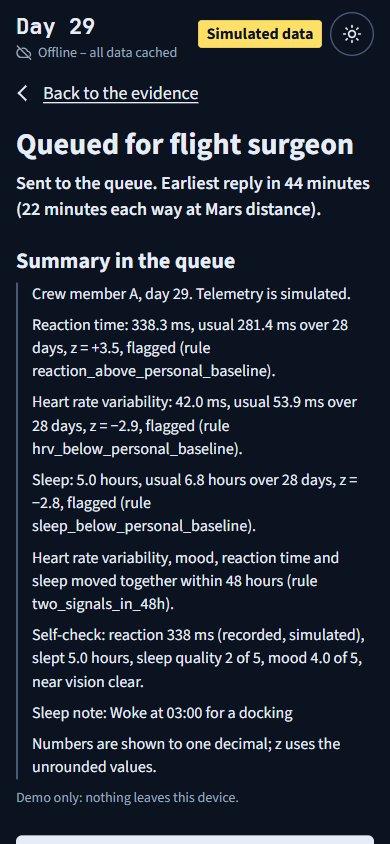
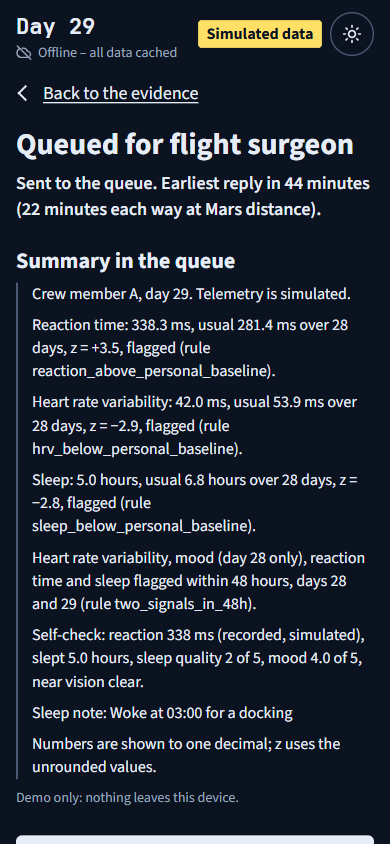
48-hour row names its signals and days (flagged, with a one-day note); README not-covered line for blood pressure and blood sugar

Changed region(s): [[0.0615, 0.6469, 0.9231, 0.7393]]

diff --git a/app.js b/app.js
@@ -50,6 +50,17 @@ const signed = (z) => `${z < 0 ? "−" : "+"}${Math.abs(z).toFixed(1)}`;
 const listWords = (xs) => (xs.length < 2 ? xs.join("") : `${xs.slice(0, -1).join(", ")} and ${xs.at(-1)}`);
 const title = (r) => (r.signal ? SIGNALS[r.signal].name : "Several readings together");
 const names = (r) => listWords(r.signals.map((s, i) => (i ? SIGNALS[s].name.toLowerCase() : SIGNALS[s].name)));
+// The 48-hour rule's two days (rules.js ruleMultiSignal: the latest day and the day before).
+const pairDays = () => [state.day - 1, state.day];
+// Its signals, each marked "(day N only)" when it was confirmed on just one of the two days.
+function pairNames(r, capital) {
+  const confirmedOn = (s, d) => (state.flags[d] || []).some((f) => f.signal === s && f.status === "confirmed");
+  return listWords(r.signals.map((s, i) => {
+    const name = i || !capital ? SIGNALS[s].name.toLowerCase() : SIGNALS[s].name;
+    const on = pairDays().filter((d) => confirmedOn(s, d));
+    return on.length === 1 ? `${name} (day ${on[0]} only)` : name;
+  }));
+}
 const flagsFor = (day) =>
   [...(state.flags[day] || [])].sort((a, b) => !a.signal - !b.signal || Math.abs(b.z) - Math.abs(a.z));
 const windowDays = (r) => { const h = state.rows.slice(0, -1).slice(-r.window_days); return [h[0].day, h.at(-1).day]; };
@@ -67,7 +78,7 @@ function daysRunning(r) {
 }
 
 function plainStatus(r) {
-  if (!r.signal) return `${COUNT[r.signals.length] || r.signals.length} readings moved together within 48 hours.`;
+  if (!r.signal) return `Flagged on days ${pairDays().join(" and ")}: ${pairNames(r)}.`;
   const where = Math.abs(r.z) >= WELL_OUTSIDE_Z ? "Well outside your usual range" : "Outside your usual range";
   const n = daysRunning(r);
   if (n > 1) return `${where}, ${ORDINAL[n] ? `${ORDINAL[n]} day` : `${n} days`} running.`;
@@ -75,7 +86,8 @@ function plainStatus(r) {
 }
 
 function plainWords(r) {
-  if (!r.signal) return `${r.signals.length} readings moved outside your usual range within 48 hours: ${names(r)}. This rule fires when two or more do.`;
+  if (!r.signal) return `${COUNT[r.signals.length] || r.signals.length} readings were flagged within 48 hours (days ${pairDays().join(" and ")}): ${pairNames(r)}. ` +
+    "This rule fires when two or more different readings are flagged in that window.";
   const s = SIGNALS[r.signal], diff = r.current - r.baseline_mean, [a, b] = windowDays(r);
   const pct = Math.round((Math.abs(diff) / r.baseline_mean) * 100);
   return `${s.phrase} was ${fmt(r.signal, r.current)}. Over days ${a} to ${b} it averaged ${fmt(r.signal, r.baseline_mean)}, ` +
@@ -594,7 +606,7 @@ function renderEvidence(r) {
     : [
       ["Window", `48 hours, days ${state.day - 1} and ${state.day}`],
       ["Readings", names(r)],
-      ["Flags when", "2 or more readings are outside your usual range"],
+      ["Flags when", "2 or more different readings are flagged in the window"],
       ["Status", plainStatus(r)],
     ];
   $("ev-numbers").classList.toggle("nums", !!r.signal); // today, usual and spread in the number font
@@ -682,7 +694,7 @@ $("queue-btn").addEventListener("click", () => {
   for (const r of flagsFor(state.day)) {
     lines.push(r.signal
       ? `${title(r)}: ${fmtZ(r, r.current)}, usual ${fmtZ(r, r.baseline_mean)} over ${r.window_days} days, z = ${signed(r.z)}, ${r.status === "confirmed" ? "flagged" : "watching"} (rule ${r.rule}).`
-      : `${names(r)} moved together within 48 hours (rule ${r.rule}).`);
+      : `${pairNames(r, true)} flagged within 48 hours, days ${pairDays().join(" and ")} (rule ${r.rule}).`);
   }
   if (row.self_check) {
     lines.push(`Self-check: reaction ${fmt("reaction_ms", row.reaction_ms)} ${row.reaction_recorded ? "(recorded, simulated)" : "median of five"}, slept ${fmt("sleep_hours", row.sleep_hours)}, ` +

diff --git a/index.html b/index.html
@@ -495,6 +495,6 @@ fieldset { border: 0; padding: 0; margin: 28px 0 0; min-width: 0; }
 <script src="spe.js?v=cdf73caa73"></script>
 <script src="reaction.js?v=0c373ca889"></script>
 <script src="store.js?v=986788a7d2"></script>
-<script src="app.js?v=bedf23bbb4"></script>
+<script src="app.js?v=02552db482"></script>
 </body>
 </html>
